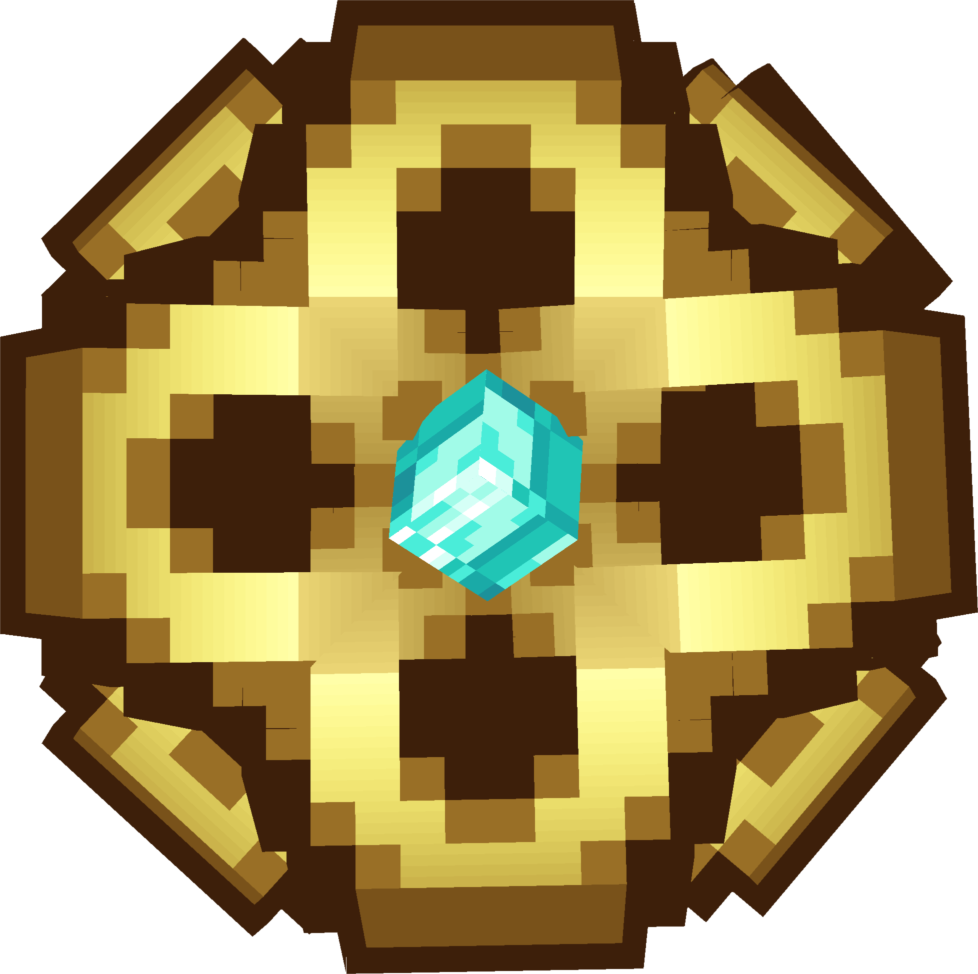
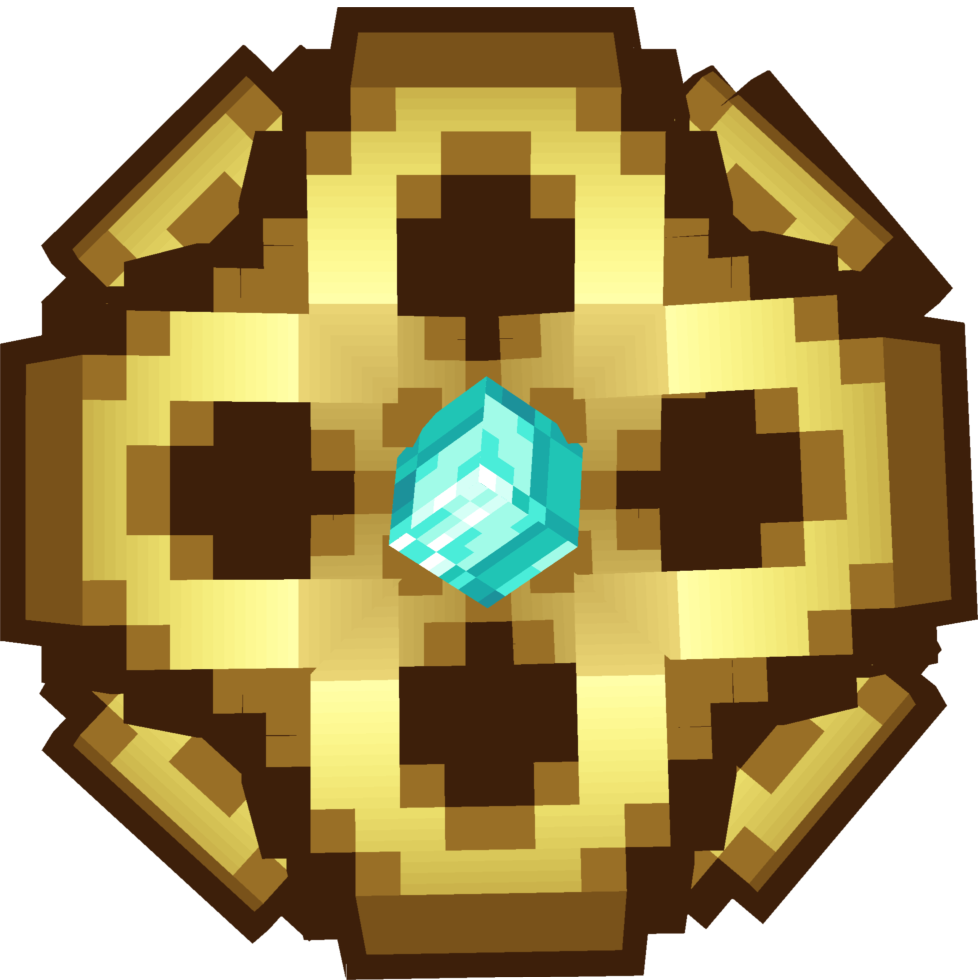
Fixed Modmenu page Added Reedthorn texture

diff --git a/src/main/java/net/abnormal/anabnormalcircumstance/item/custom/unique/IcicleShardItem.java b/src/main/java/net/abnormal/anabnormalcircumstance/item/custom/unique/IcicleShardItem.java
@@ -4,7 +4,6 @@ import net.abnormal.anabnormalcircumstance.effect.ModEffects;
 import net.abnormal.anabnormalcircumstance.item.interfaces.UniqueAbilityItem;
 import net.abnormal.anabnormalcircumstance.util.UniqueItemCooldownManager;
 import net.minecraft.client.item.TooltipContext;
-import net.minecraft.entity.Entity;
 import net.minecraft.entity.LivingEntity;
 import net.minecraft.entity.effect.StatusEffectInstance;
 import net.minecraft.entity.effect.StatusEffects;
